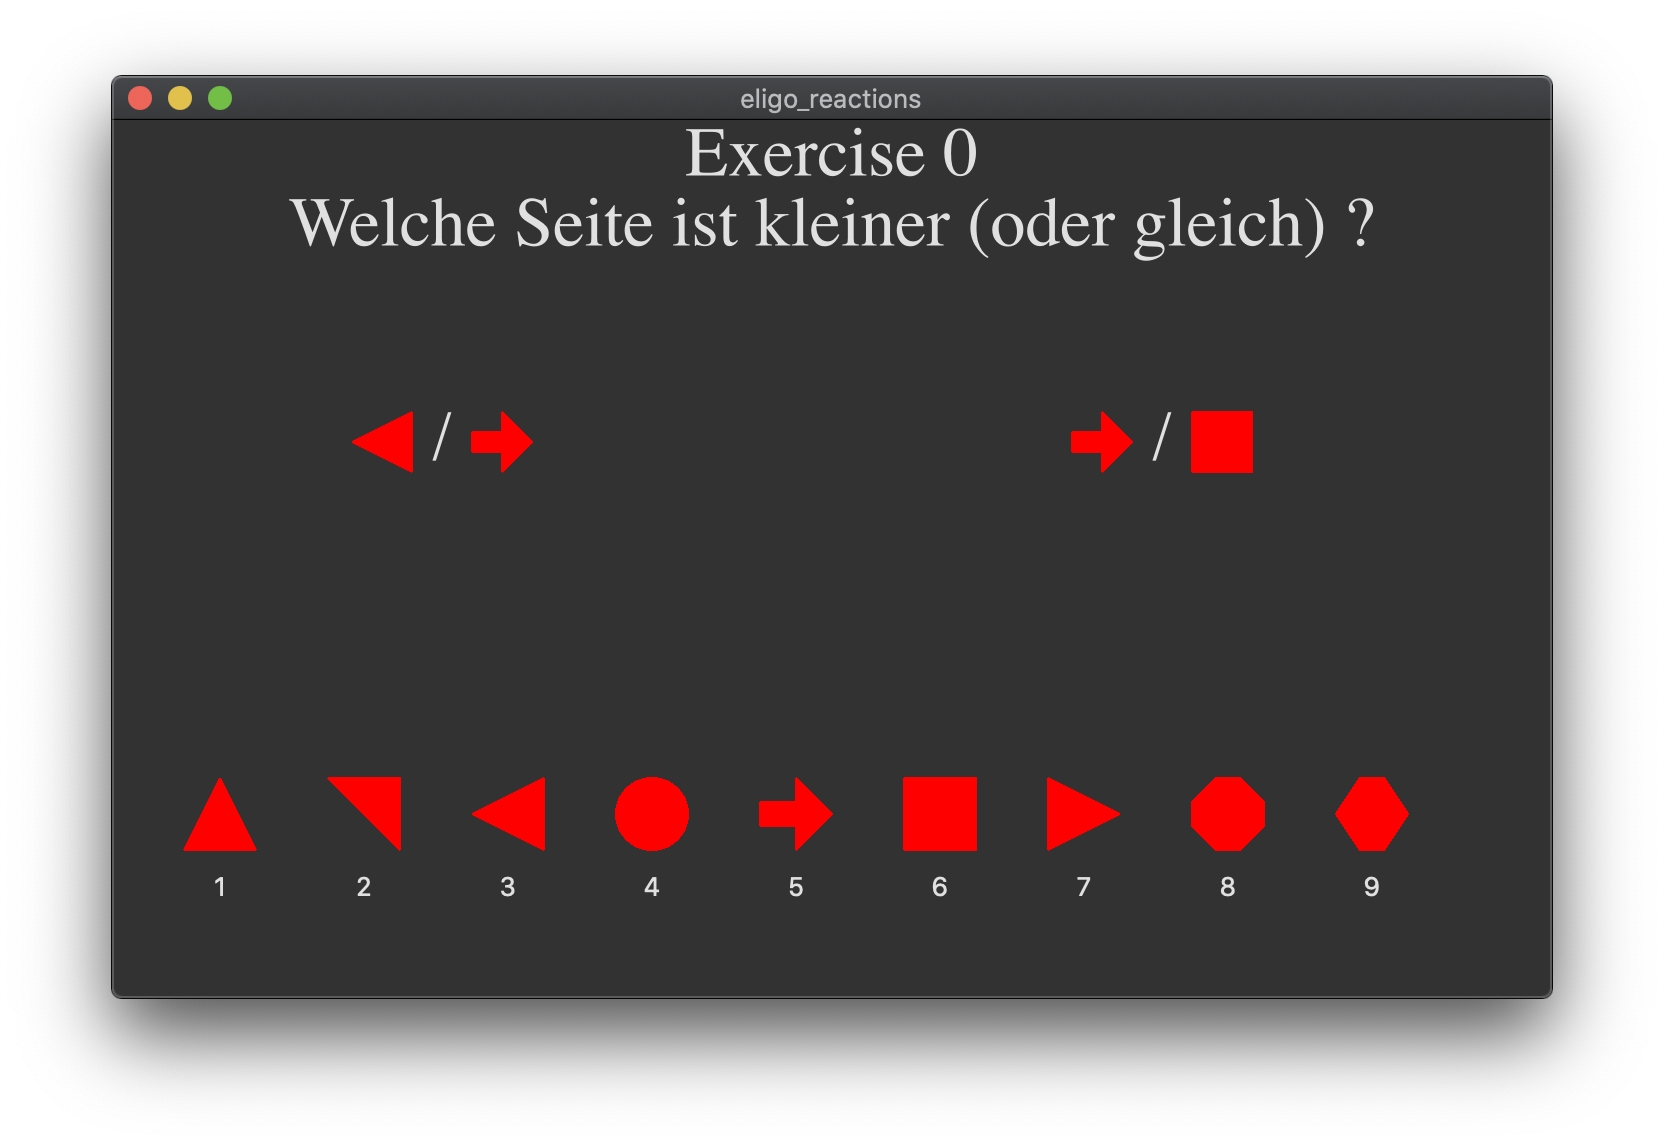
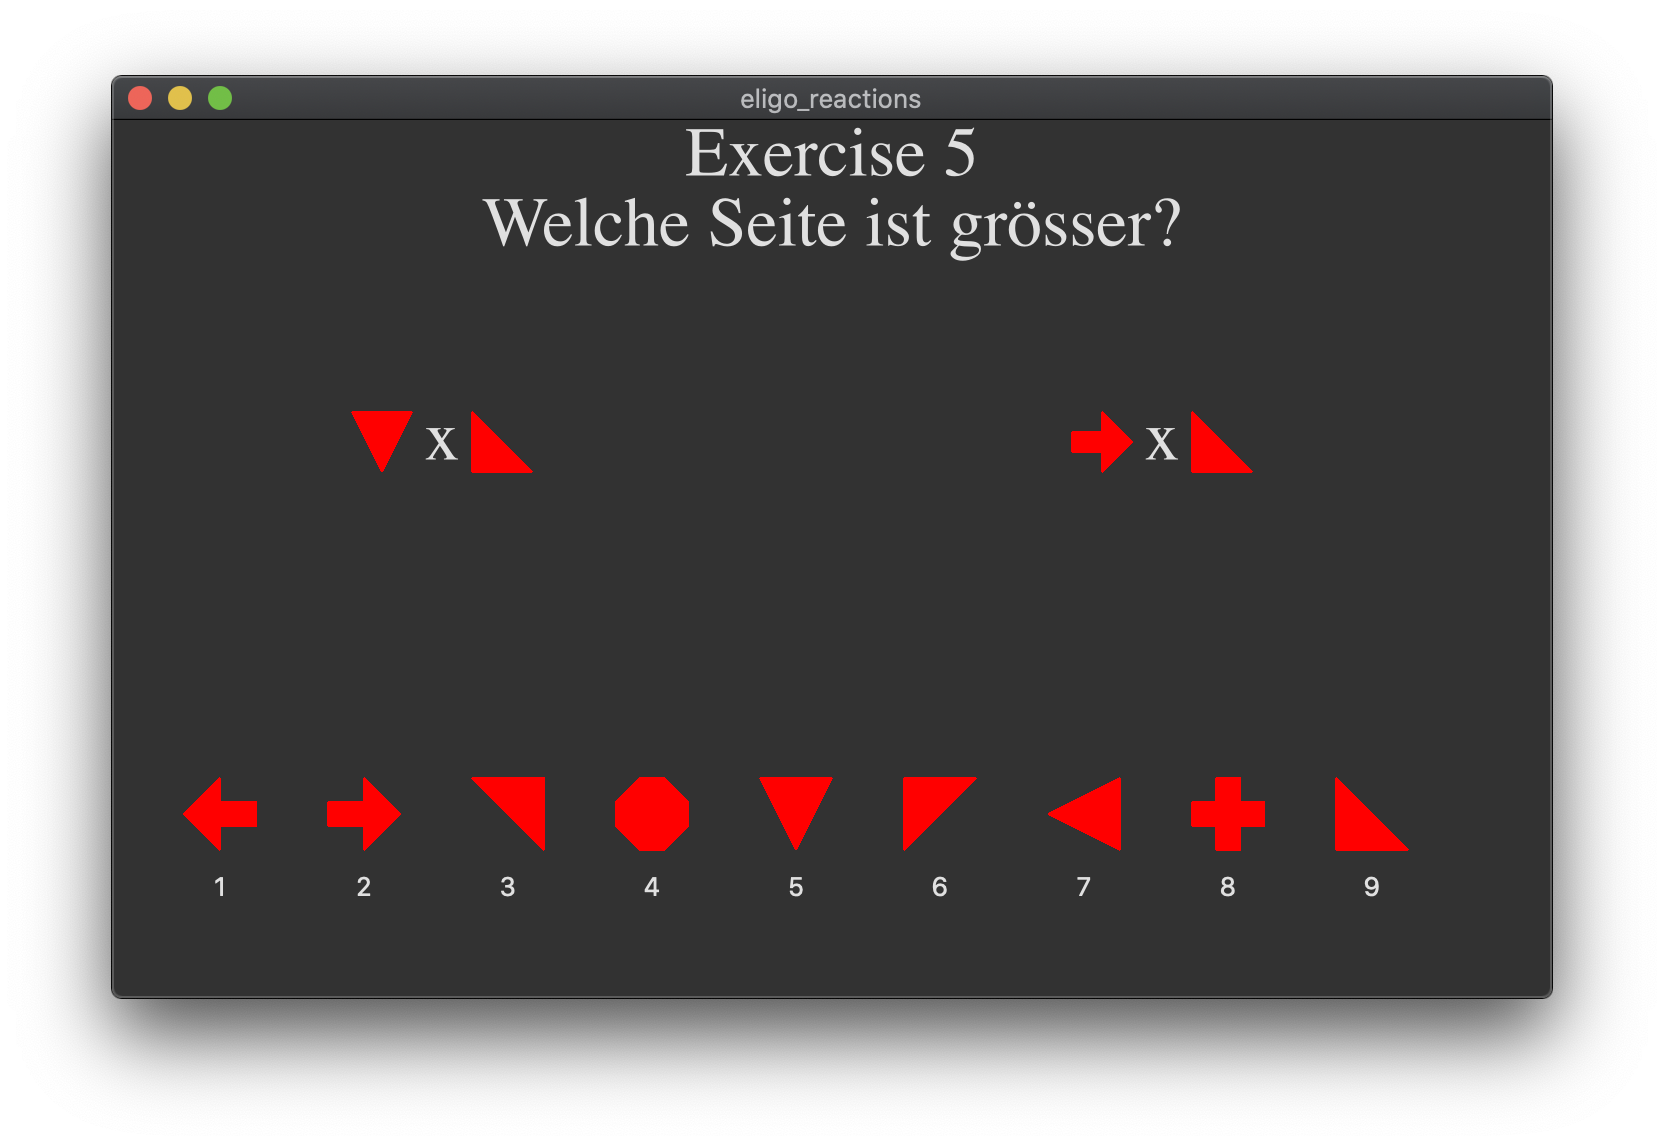
equal solution & verbose mode

diff --git a/main.py b/main.py
@@ -14,7 +14,7 @@ from geometry import Shape
 
 class Window(QWidget):
 
-    keys = {Qt.Key_Left: "left", Qt.Key_Right: "right", Qt.Key_Space: "space"}
+    keys = {Qt.Key_Left: "left", Qt.Key_Right: "right", Qt.Key_Down: "equal", Qt.Key_Space: "skip"}
 
     def __init__(self):
         super().__init__()
@@ -77,7 +77,7 @@ class Window(QWidget):
     ################################################################################
     def draw_exercise(self, task_description: str, task_count: int):
         window_size = self.get_size()
-        text = f"Exercise {task_count}\nWelche Seite ist {task_description} (oder gleich) ?"
+        text = f"Exercise {task_count}\nWelche Seite ist {task_description}?"
 
         painter = QPainter()
         painter.begin(self)
@@ -129,10 +129,10 @@ class Window(QWidget):
 
 if __name__ == '__main__':
     parser = argparse.ArgumentParser()
-    parser.add_argument("--debug", action="store_true", help="log debugging mode")
+    parser.add_argument("--verbose", action="store_true", help="verbose mode")
     args = parser.parse_args()
 
-    log_level = logging.INFO if not args.debug else logging.DEBUG
+    log_level = logging.INFO if not args.verbose else logging.DEBUG
     logging.basicConfig(level=log_level, format="%(message)s")
 
     app = QApplication(sys.argv)

diff --git a/exercise.py b/exercise.py
@@ -50,8 +50,12 @@ class Exercise:
 
         # Solve task (assuming addition).
         results = [self.operators[operation](shapes_side).data for shapes_side in shapes_task]
-        solution_is_left = ((results[0] >= results[1]) == (decision == "grösser"))  # True => left
-        self._solution = "left" if solution_is_left else "right"
+        if results[0] == results[1]:
+            self._solution = "equal"
+        elif (results[0] > results[1]) == (decision == "grösser"):
+            self._solution = "left"
+        else:
+            self._solution = "right"
 
         # Increment task counter.
         self._counter += 1

diff --git a/README.md b/README.md
@@ -3,7 +3,7 @@ Eligo game for testing and exercising reaction time
 
 ![Drag Racing](ressources/screenshot.png)
 
-Keys: [Left] for left block, [Right] for right block, [Space] for next exercise
+Keys: [Left] for left block, [Right] for right block, [Down] for equal, [Space] for next exercise
 
 
 ## Installation
@@ -18,5 +18,5 @@ pip3 install -r requirements.txt
 ## Execution
 ```
 source .venv/bin/activate  # activate virtual environment
-python3 main.py
+python3 main.py  # --debug for further information
 ```
